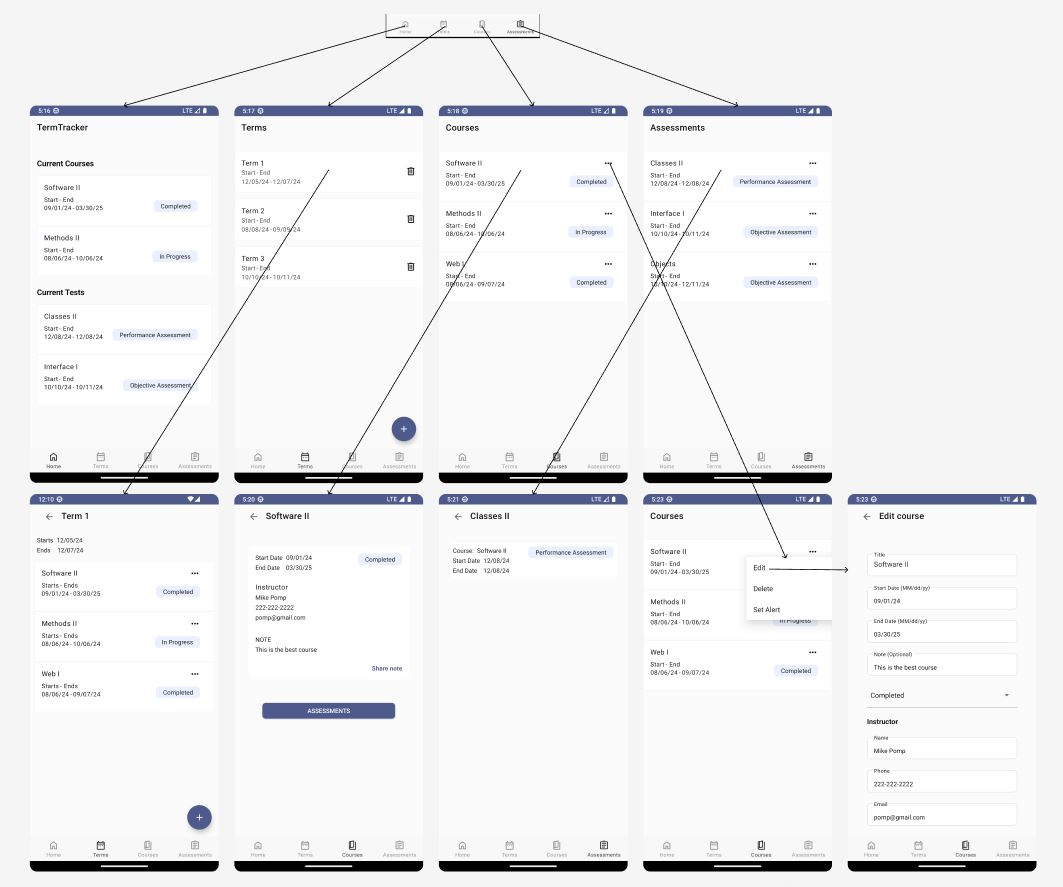
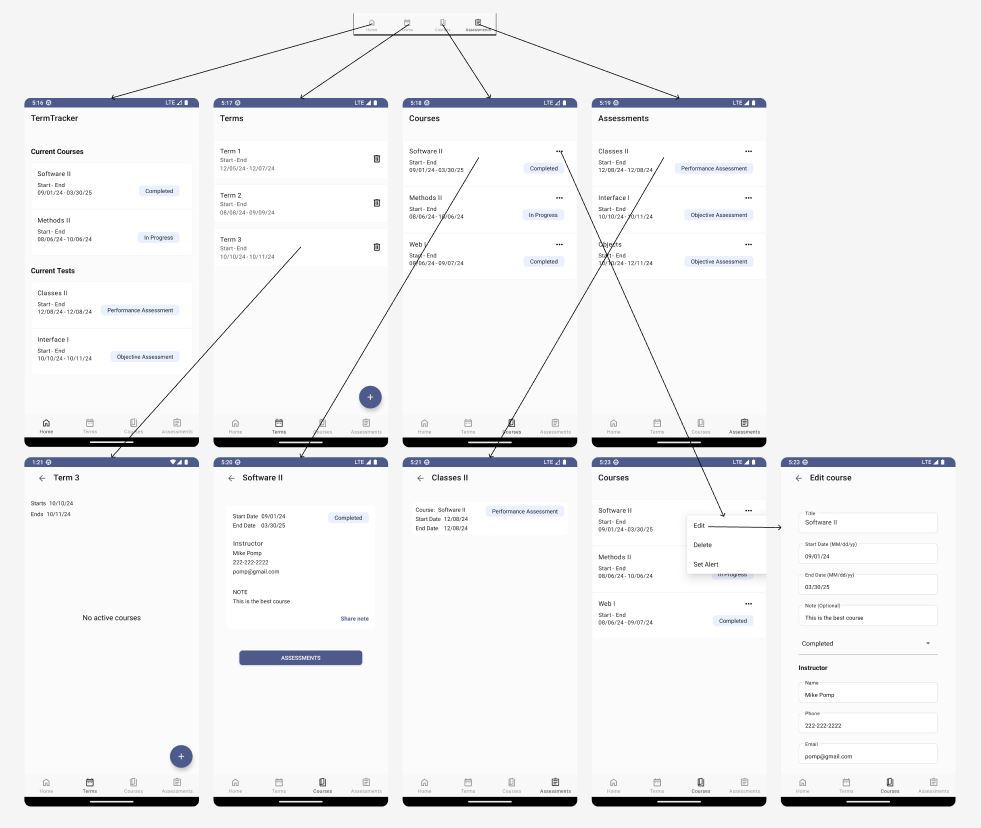
Final revision before update to add online course subclass.

diff --git a/app/src/main/java/com/sld/termtracker/UI/EmptyStateFragment.java b/app/src/main/java/com/sld/termtracker/UI/EmptyStateFragment.java
@@ -16,6 +16,7 @@ import androidx.fragment.app.FragmentTransaction;
 import com.example.termtracker.R;
 import com.google.android.material.appbar.MaterialToolbar;
 import com.google.android.material.floatingactionbutton.FloatingActionButton;
+import com.sld.termtracker.Database.Repository;
 
 public class EmptyStateFragment extends Fragment {
 
@@ -25,6 +26,8 @@ public class EmptyStateFragment extends Fragment {
     private static final String ARG_ITEM_ID = "term_id";
     private String itemTitle;
     private String message;
+
+    private Repository repository;
 
     private int itemId;
 
@@ -53,6 +56,22 @@ public class EmptyStateFragment extends Fragment {
             itemTitle = getArguments().getString(ARG_ITEM_TITLE);
             itemId = getArguments().getInt(ARG_ITEM_ID);
             emptyStateText.setText(message);
+        }
+
+        TextView termStartDate = view.findViewById(R.id.date_start);
+        TextView termEndDate = view.findViewById(R.id.date_end);
+
+        repository = new Repository(getActivity().getApplication());
+
+        if(itemId != -1 || itemId != 0) {
+            repository.getTermById(itemId, term -> {
+                if(getActivity() != null) {
+                    getActivity().runOnUiThread(() -> {
+                        termStartDate.setText(term.getStartDate());
+                        termEndDate.setText(term.getEndDate());
+                    });
+                }
+            });
         }
 
         if ((getActivity() instanceof MainActivity || getActivity() instanceof TestsActivity)) {
